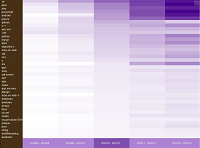
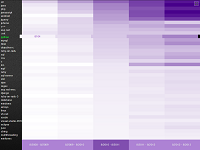
Update theme/style

Changed region(s): [[0.0, 0.0, 1.0, 1.0], [0.81, 0.2162, 1.0, 0.2703], [0.15, 0.2162, 0.21, 0.2703]]

diff --git a/index.html b/index.html
@@ -40,8 +40,21 @@
     <!-- ko if: page()=== 'home' -->
     <div class="titleWrap">
         <div class="container">
-            <h1>Some data visvalizations</h1>
-            <p>This is a template for a simple marketing or informational website. It includes a large callout called a jumbotron and three supporting pieces of content. Use it as a starting point to create something more unique.</p>
+            <h1>Some
+                <svg class="lineThrough">
+                    <defs>
+                        <path id="textPath" d="M10 50 C10 0 90 0 90 50" />
+                    </defs>
+                    <text fill="red">
+                        <textPath xlink:href="#textPath">useless</textPath>
+                    </text>
+                </svg>
+                data visvalizations</h1>
+            <p>Here you can find a collection of data visualization on
+                <a target="_blank" href="http://stackoverflow.com/" target="_blank">stackowerflow.com</a>data , basically related to programming languages which are tags in questions asked. All data are collected using
+                <a target="_blank" href="https://api.stackexchange.com/docs " target="_blank">Stack API</a>. These are experiments with javascript data visualization library
+                <a target="_blank" href="http://d3js.org/" target="_blank">D3.js</a>. Most of these data can be visualized with a bar or pie chart, but here I am choosing different types of data presentation just for the sake of it.
+            </p>
 
         </div>
     </div>

diff --git a/theme/css/style.css b/theme/css/style.css
@@ -71,12 +71,40 @@ h6,
     color: #000000;
     background: #FFB400;
 }
+.titleWrap h1 {
+    position: relative;
+    margin: 20px 0;
+}
+.titleWrap a {
+    color: #EEEEEE;
+}
+.titleWrap a:hover {
+    color: #FFFFFF;
+}
+.titleWrap p {
+    font-size: 20px;
+}
+.lineThrough {
+    display: inline-block;
+    position: absolute;
+    top: -40px;
+    left: 94px;
+    width: 60px;
+    height: 50px;
+}
+.lineThrough text {
+    fill: #FFF;
+    font-family: "Open Sans", sans-serif;
+    font-size: 20px;
+    text-rendering: optimizeLegibility;
+}
 footer {
     height: 20px;
     background: #000;
     bottom: 0px;
     position: fixed;
     width: 100%;
+    color: #ff1171;
 }
 .graphWrapper {
     width: 100%;
@@ -119,15 +147,19 @@ footer {
 }
 .graphWrapper .canvas .heading {
     clear: both;
-    overflow-y: scroll;
     height: 17%;
     background: #222222;
     margin: 1%;
-}
-.graphWrapper .canvas .heading > * {
-    margin: 0px;
     color: #FF1171;
-    padding: 5px;
+}
+.graphWrapper .canvas .heading h2 {
+    font-size: 21px;
+    padding: 10px;
+    margin: 0px;
+}
+.graphWrapper .canvas .heading h4 {
+    margin: 0px;
+    padding: 5px 10px;
 }
 .graplist-item {
     border-radius: 1px;

diff --git a/js/graph/views/templ/graph.html b/js/graph/views/templ/graph.html
@@ -1,12 +1,7 @@
 <div class="graphCanvas"></div>
 
 <div class="specs">
-    <ul>
-        <li>a</li>
-        <li>b</li>
-        <li>c</li>
-        <li>d</li>
-    </ul>
+
 </div>
 
 <div class="heading">
